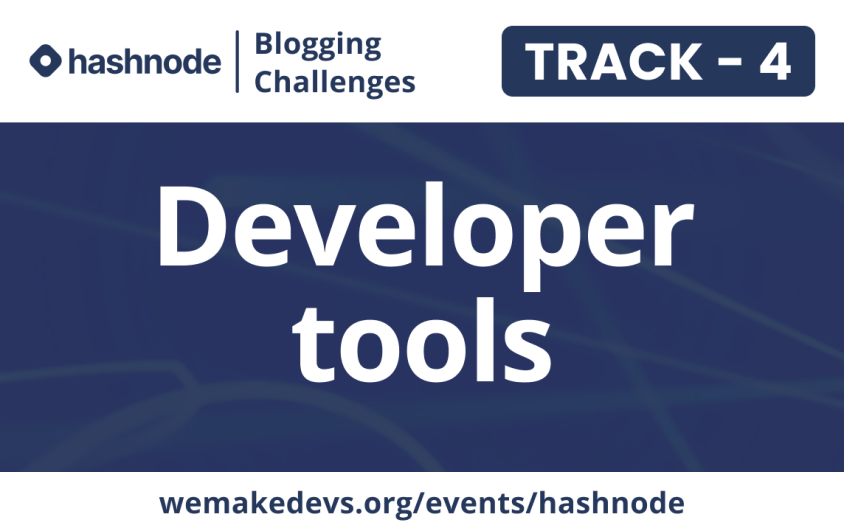
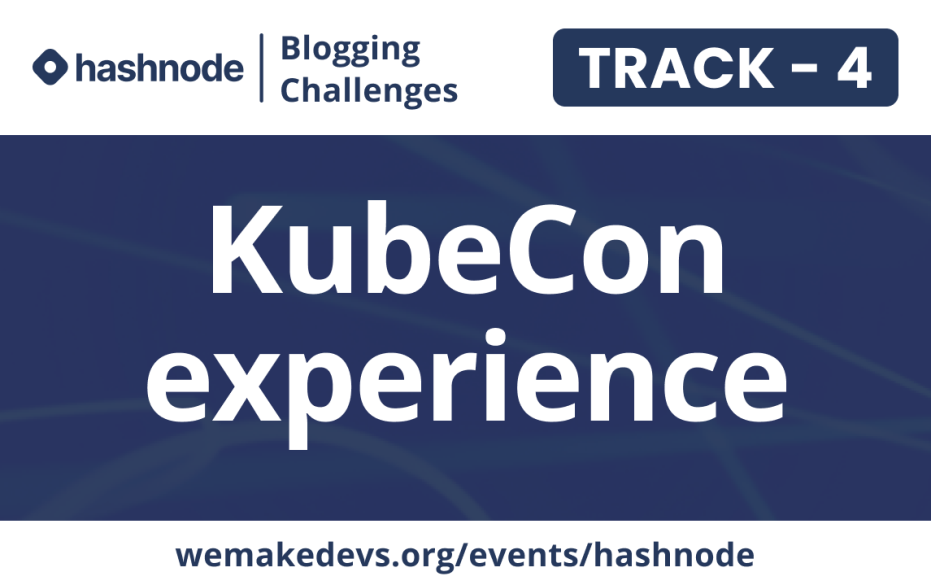
Update tracks for blogging challenge

diff --git a/src/components/PageComp/HashnodePage/Tracks.jsx b/src/components/PageComp/HashnodePage/Tracks.jsx
@@ -42,7 +42,7 @@ const hashnodeData = [
   },
   {
     description:
-      'Write a blog on the topic Developer tools, share some good tips and your experience and definitely stand a chance to win the grand prize.',
+      'Write a blog on your KubeCon experience and definitely stand a chance to win the grand prize.',
     image: Track4,
   },
   {
